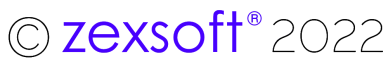
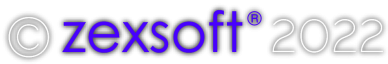
Added copyright notice WIP BART Summarization

diff --git a/Microsoft.ML.Models.BERT/BertModel.cs b/Microsoft.ML.Models.BERT/BertModel.cs
@@ -187,180 +187,16 @@ namespace Microsoft.ML.Models.BERT
         }
     }
 
-    public class BertSummaryModel : IDisposable
+    public class BartSummaryModel
     {
-        private readonly BertSummarizeModelConfiguration _bertModelConfiguration;
-        private List<string> _vocabulary;
-        private WordPieceTokenizer _wordPieceTokenizer;
-        private PredictionEngine<BertFeature, BertPredictionResult> _predictionEngine;
-
-        public BertSummaryModel(BertSummarizeModelConfiguration bertModelConfiguration)
+        public BartSummaryModel(string vocab, string path)
         {
-            _bertModelConfiguration = bertModelConfiguration;
+
         }
 
         public void Initialize()
         {
-            _vocabulary = ReadVocabularyFile(_bertModelConfiguration.VocabularyFile);
-            _wordPieceTokenizer = new WordPieceTokenizer(_vocabulary);
 
-            var onnxModelConfigurator = new OnnxModelConfigurator<BertFeature>(_bertModelConfiguration);
-            _predictionEngine = onnxModelConfigurator.GetMlNetPredictionEngine<BertPredictionResult>();
-        }
-
-        public (List<string> tokens, float probability) Predict(string context, string question)
-        {
-            var tokens = _wordPieceTokenizer.Tokenize(question, context);
-            var encodedFeature = Encode(tokens);
-
-            var result = _predictionEngine.Predict(encodedFeature);
-            var contextStart = tokens.FindIndex(o => o.Token == WordPieceTokenizer.DefaultTokens.Separation);
-
-            var (startIndex, endIndex, probability) = GetBestPredictionFromResult(result, contextStart);
-
-            var predictedTokens = encodedFeature.InputIds
-                .Skip(startIndex)
-                .Take(endIndex + 1 - startIndex)
-                .Select(o => _vocabulary[(int)o])
-                .ToList();
-
-            var stichedTokens = StitchSentenceBackTogether(predictedTokens);
-
-            return (stichedTokens, probability);
-        }
-
-        private List<string> StitchSentenceBackTogether(List<string> tokens)
-        {
-            var currentToken = string.Empty;
-
-            tokens.Reverse();
-
-            var tokensStitched = new List<string>();
-
-            foreach (var token in tokens)
-            {
-                if (!token.StartsWith("##"))
-                {
-                    currentToken = token + currentToken;
-                    tokensStitched.Add(currentToken);
-                    currentToken = string.Empty;
-                } else
-                {
-                    currentToken = token.Replace("##", "") + currentToken;
-                }
-            }
-
-            tokensStitched.Reverse();
-
-            return tokensStitched;
-        }
-
-        private (int StartIndex, int EndIndex, float Probability) GetBestPredictionFromResult(BertPredictionResult result, int minIndex)
-        {
-            var bestN = _bertModelConfiguration.BestResultSize;
-
-            var bestStartLogits = result.StartLogits
-                .Select((logit, index) => (Logit: logit, Index: index))
-                .OrderByDescending(o => o.Logit)
-                .Take(bestN);
-
-            var bestEndLogits = result.EndLogits
-                .Select((logit, index) => (Logit: logit, Index: index))
-                .OrderByDescending(o => o.Logit)
-                .Take(bestN);
-
-            var bestResultsWithScore = bestStartLogits
-                .SelectMany(startLogit =>
-                    bestEndLogits
-                    .Select(endLogit =>
-                        (
-                            StartLogit: startLogit.Index,
-                            EndLogit: endLogit.Index,
-                            Score: startLogit.Logit + endLogit.Logit
-                        )
-                     )
-                )
-                .Where(entry => !(entry.EndLogit < entry.StartLogit || entry.EndLogit - entry.StartLogit > _bertModelConfiguration.MaxAnswerLength || entry.StartLogit == 0 && entry.EndLogit == 0 || entry.StartLogit < minIndex))
-                .Take(bestN);
-
-            var (item, probability) = bestResultsWithScore
-                .Softmax(o => o.Score)
-                .OrderByDescending(o => o.Probability)
-                .FirstOrDefault();
-
-            return (StartIndex: item.StartLogit, EndIndex: item.EndLogit, probability);
-        }
-
-        private BertFeature Encode(List<(string Token, int Index)> tokens)
-        {
-            var padding = Enumerable
-                .Repeat(0L, _bertModelConfiguration.MaxSequenceLength - tokens.Count)
-                .ToList();
-
-            var tokenIndexes = tokens
-                .Select(token => (long)token.Index)
-                .Concat(padding)
-                .ToArray();
-
-            var segmentIndexes = GetSegmentIndexes(tokens)
-                .Concat(padding)
-                .ToArray();
-
-            var inputMask =
-                tokens.Select(o => 1L)
-                .Concat(padding)
-                .ToArray();
-
-            return new BertFeature()
-            {
-                InputIds = tokenIndexes,
-                SegmentIds = segmentIndexes,
-                InputMask = inputMask,
-                UniqueIds = new long[] { 0 }
-            };
-        }
-
-        private IEnumerable<long> GetSegmentIndexes(List<(string token, int index)> tokens)
-        {
-            var segmentIndex = 0;
-            var segmentIndexes = new List<long>();
-
-            foreach (var (token, index) in tokens)
-            {
-                segmentIndexes.Add(segmentIndex);
-
-                if (token == WordPieceTokenizer.DefaultTokens.Separation)
-                {
-                    segmentIndex++;
-                }
-            }
-
-            return segmentIndexes;
-        }
-
-        private static List<string> ReadVocabularyFile(string filename)
-        {
-            var vocabulary = new List<string>();
-
-            using (var reader = new StreamReader(filename))
-            {
-                string line;
-
-                while ((line = reader.ReadLine()) != null)
-                {
-                    if (!string.IsNullOrWhiteSpace(line))
-                    {
-                        vocabulary.Add(line);
-                    }
-                }
-            }
-
-            return vocabulary;
-        }
-
-        public void Dispose()
-        {
-            _predictionEngine.Dispose();
         }
     }
 }

diff --git a/OptiLearn/Views/MainWindow.axaml.cs b/OptiLearn/Views/MainWindow.axaml.cs
@@ -38,7 +38,7 @@ namespace OptiLearn.Views
         public Timer pomodoroTimer;
 
         BertQuestionModel modelQuestion;
-        BertSummaryModel modelSummarize;
+        BartSummaryModel modelSummarize;
         ObservableCollection<Conversation> assistantChat { get; set; } = new();
 
 
@@ -59,14 +59,22 @@ namespace OptiLearn.Views
             // Models
             if (File.Exists("Model/bert-question.onnx"))        // BERT Question
             {
-                BertQuestionModelConfiguration modelCfgQuestion = new BertQuestionModelConfiguration()
+                try
                 {
-                    VocabularyFile = "Model/vocab.txt",
-                    ModelPath = "Model/bert-question.onnx"
-                };
+                    BertQuestionModelConfiguration modelCfgQuestion = new BertQuestionModelConfiguration()
+                    {
+                        VocabularyFile = "Model/vocab.txt",
+                        ModelPath = "Model/bert-question.onnx"
+                    };
 
-                modelQuestion = new BertQuestionModel(modelCfgQuestion);
-                modelQuestion.Initialize();
+                    modelQuestion = new BertQuestionModel(modelCfgQuestion);
+                    modelQuestion.Initialize();
+                }
+                catch
+                {
+                    tbAssistant.Text = "AI Assistant corrupted.";
+                    tbAssistant.IsEnabled = false;
+                }
             }
             else
             {
@@ -74,16 +82,17 @@ namespace OptiLearn.Views
                 tbAssistant.IsEnabled = false;
             }
 
-            if (File.Exists("Model/bert-summarize.onnx"))        // mBART Summarize
+            if (File.Exists("Model/bart-summarize.onnx"))        // mBART Summarize
             {
-                BertSummarizeModelConfiguration modelCfgQuestion = new BertSummarizeModelConfiguration()
+                try
                 {
-                    VocabularyFile = "Model/vocab.txt",
-                    ModelPath = "Model/bart-summarize.onnx"
-                };
-
-                modelSummarize = new BertSummaryModel(modelCfgQuestion);
-                modelSummarize.Initialize();
+                    modelSummarize = new BartSummaryModel("Model/vocab.txt", "Model/bart-summarize.onnx");
+                    modelSummarize.Initialize();
+                }
+                catch
+                {
+                    btSummarize.IsEnabled = false;
+                }
             }
             else
             {

diff --git a/Microsoft.ML.Models.BERT/BertModelConfiguration.cs b/Microsoft.ML.Models.BERT/BertModelConfiguration.cs
@@ -18,21 +18,4 @@ namespace Microsoft.ML.Models.BERT
 
         public string[] ModelOutput => new[] { "unstack:1", "unstack:0", "unique_ids:0" };
     }
-
-    public class BertSummarizeModelConfiguration : IOnnxModel
-    {
-        public int MaxSequenceLength { get; set; } = 1024;
-
-        public int MaxAnswerLength { get; set; } = 1024;
-
-        public int BestResultSize { get; set; } = 20;
-
-        public string VocabularyFile { get; set; }
-
-        public string ModelPath { get; set; }
-
-        public string[] ModelInput => new[] { "input_ids:0", "attention_mask:0", "decoder_input_ids:0", "decoder_attention_mask:0" };
-
-        public string[] ModelOutput => new[] { "last_hidden_state:1", "onnx::MatMul_2374:0" };
-    }
 }
